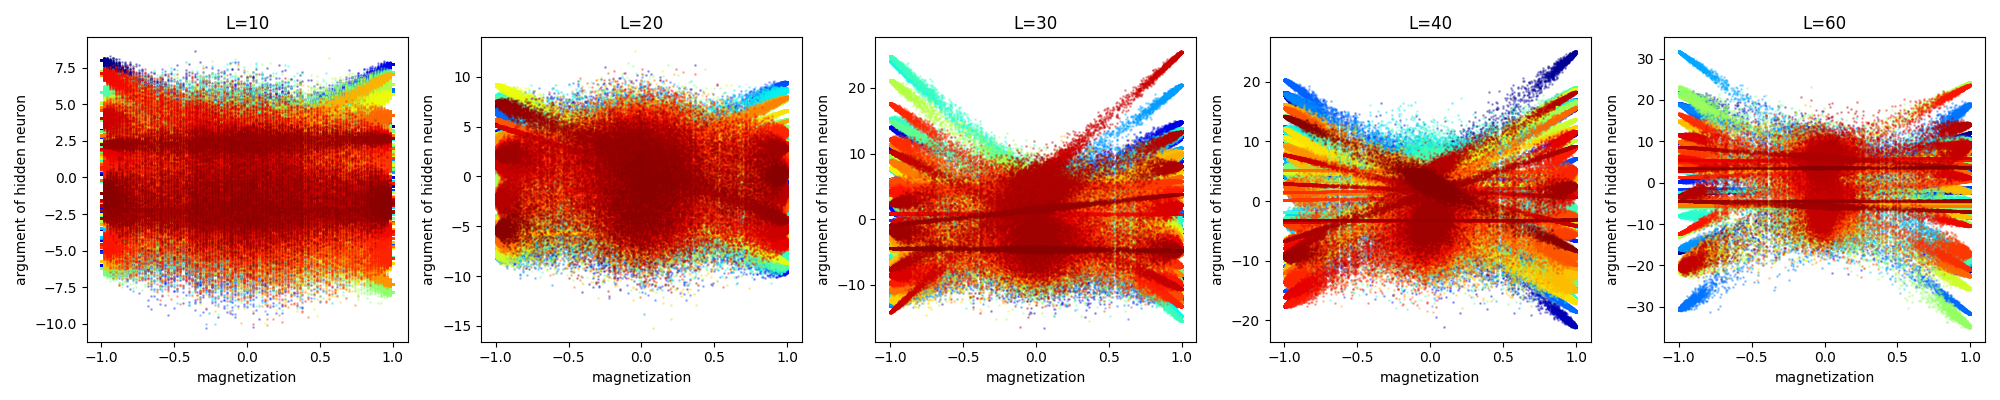
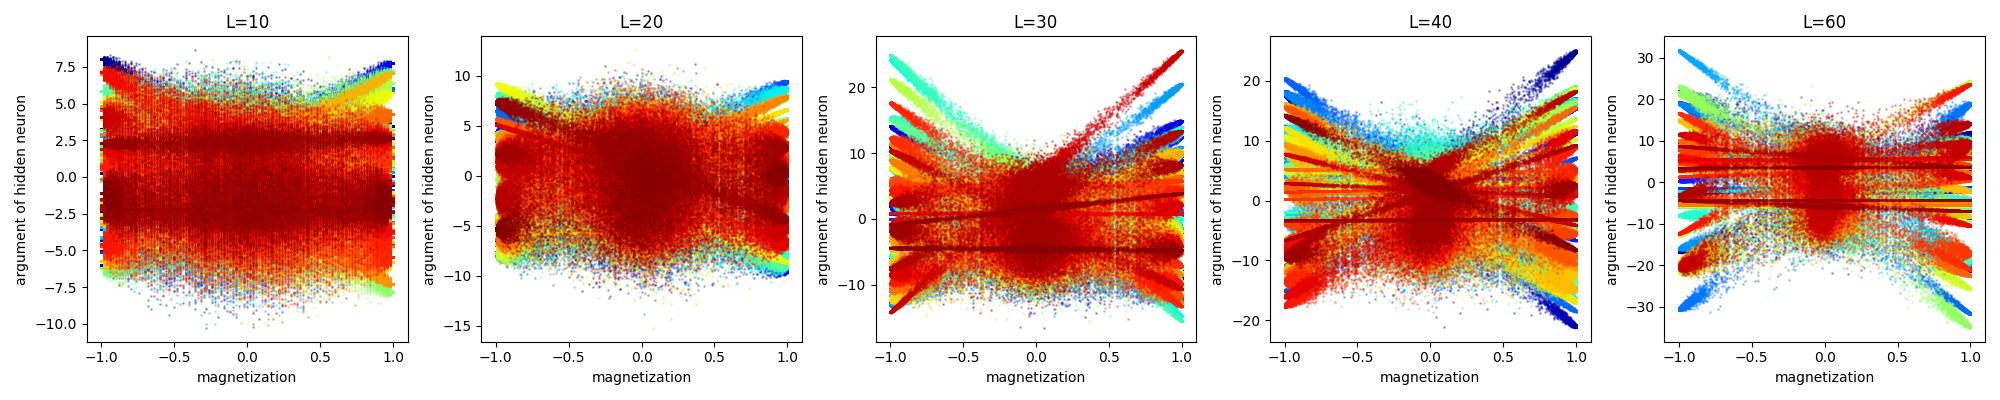
tryout model with softmax output, and differend l2

diff --git a/model_creation_mario.py b/model_creation_mario.py
@@ -11,10 +11,10 @@ DATA_DIR = "data_decorr/"
 OUT_DIR = "models_100_mario/"
 
 BATCH_SIZE = 32
-LAM_VAR = 3e-1   # weight-variance regularization strength (pushes w_ji toward being constant in i)
-L2 = 4e-2        # keep overall weight magnitude bounded
+#LAM_VAR = 3e-1   # weight-variance regularization strength (pushes w_ji toward being constant in i)
+L2 = 3e-3       # keep overall weight magnitude bounded
 
-
+"""
 @tf.keras.utils.register_keras_serializable()
 class VarianceL2Regularizer(tf.keras.regularizers.Regularizer):
     #L2 plus a penalty on the variance of each neuron's weight vector across
@@ -30,7 +30,7 @@ class VarianceL2Regularizer(tf.keras.regularizers.Regularizer):
 
     def get_config(self):
         return {'l2': float(self.l2), 'lam_var': float(self.lam_var)}
-"""
+
 
 @tf.keras.utils.register_keras_serializable()
 class WeightVarianceRegularizer(tf.keras.regularizers.Regularizer):